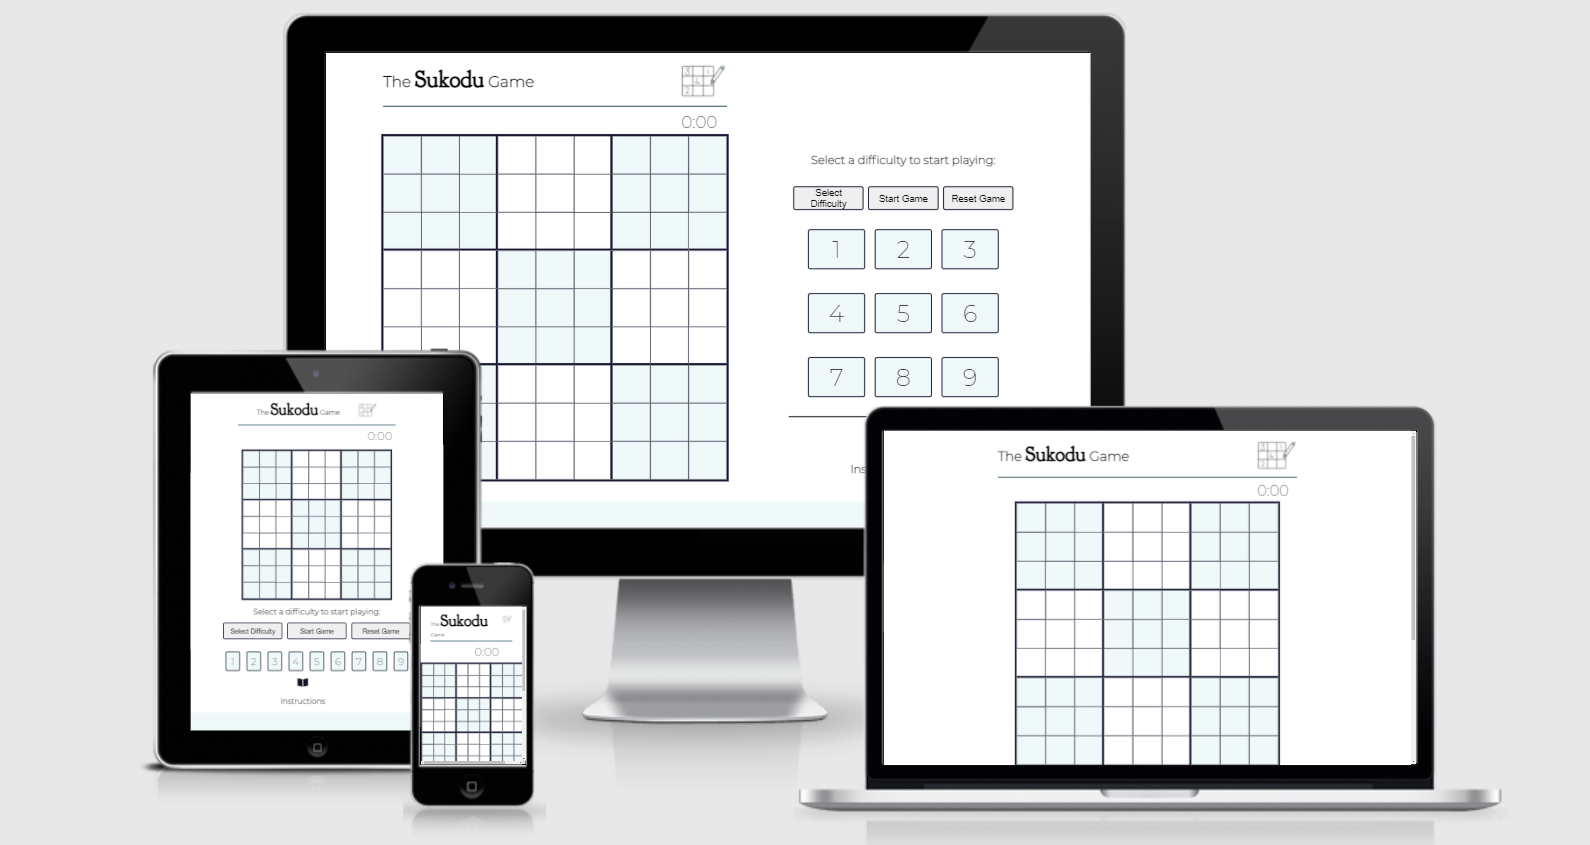
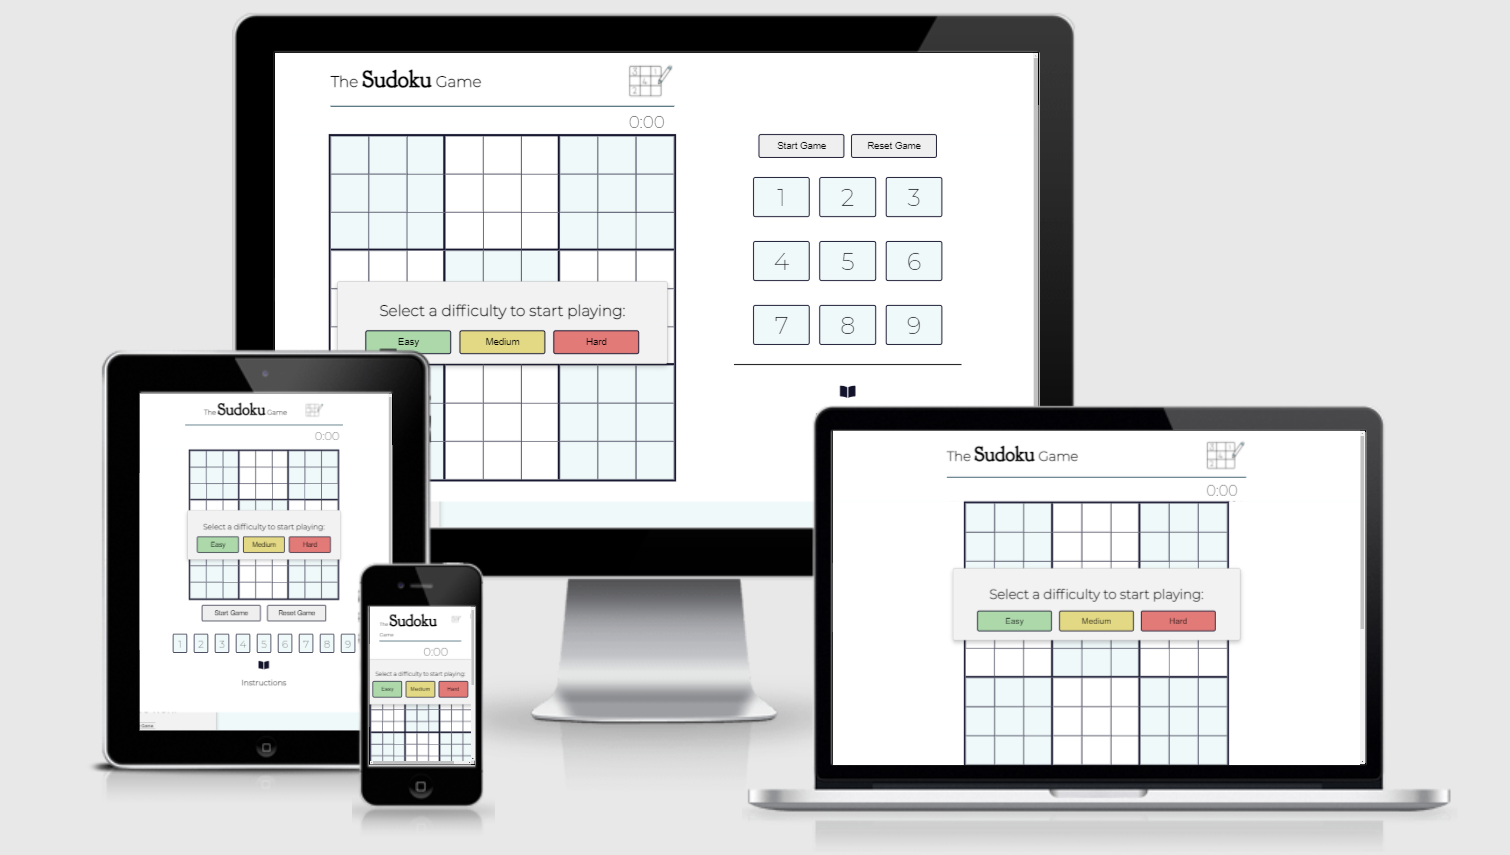
Images have been replaced on the README file

Changed region(s): [[0.0623, 0.0, 0.9649, 0.9846]]

diff --git a/README.md b/README.md
@@ -162,12 +162,17 @@ Some alterations were made from the original wireframe designs to improve User E
 
 ## Game Buttons
 
-- Allows the user to interact with the game.
+- Allows the user to interact with the game and select the level of difficulty before starting.
 - (User Story 1 & User Story 6)
 
 <details>
-    <summary>Sudoku Buttons - Click Here:</summary>
-    <img src="assets/images/buttons.PNG" width="500">
+    <summary>Sudoku Difficulty Selection Buttons - Click Here:</summary>
+    <img src="assets/images/sudoku_difficulty.PNG" width="500">
+</details>
+
+<details>
+    <summary>Sudoku Start/Restart Buttons - Click Here:</summary>
+    <img src="assets/images/sudoku_start_restart.PNG" width="500">
 </details>
 
 ## Instructions
